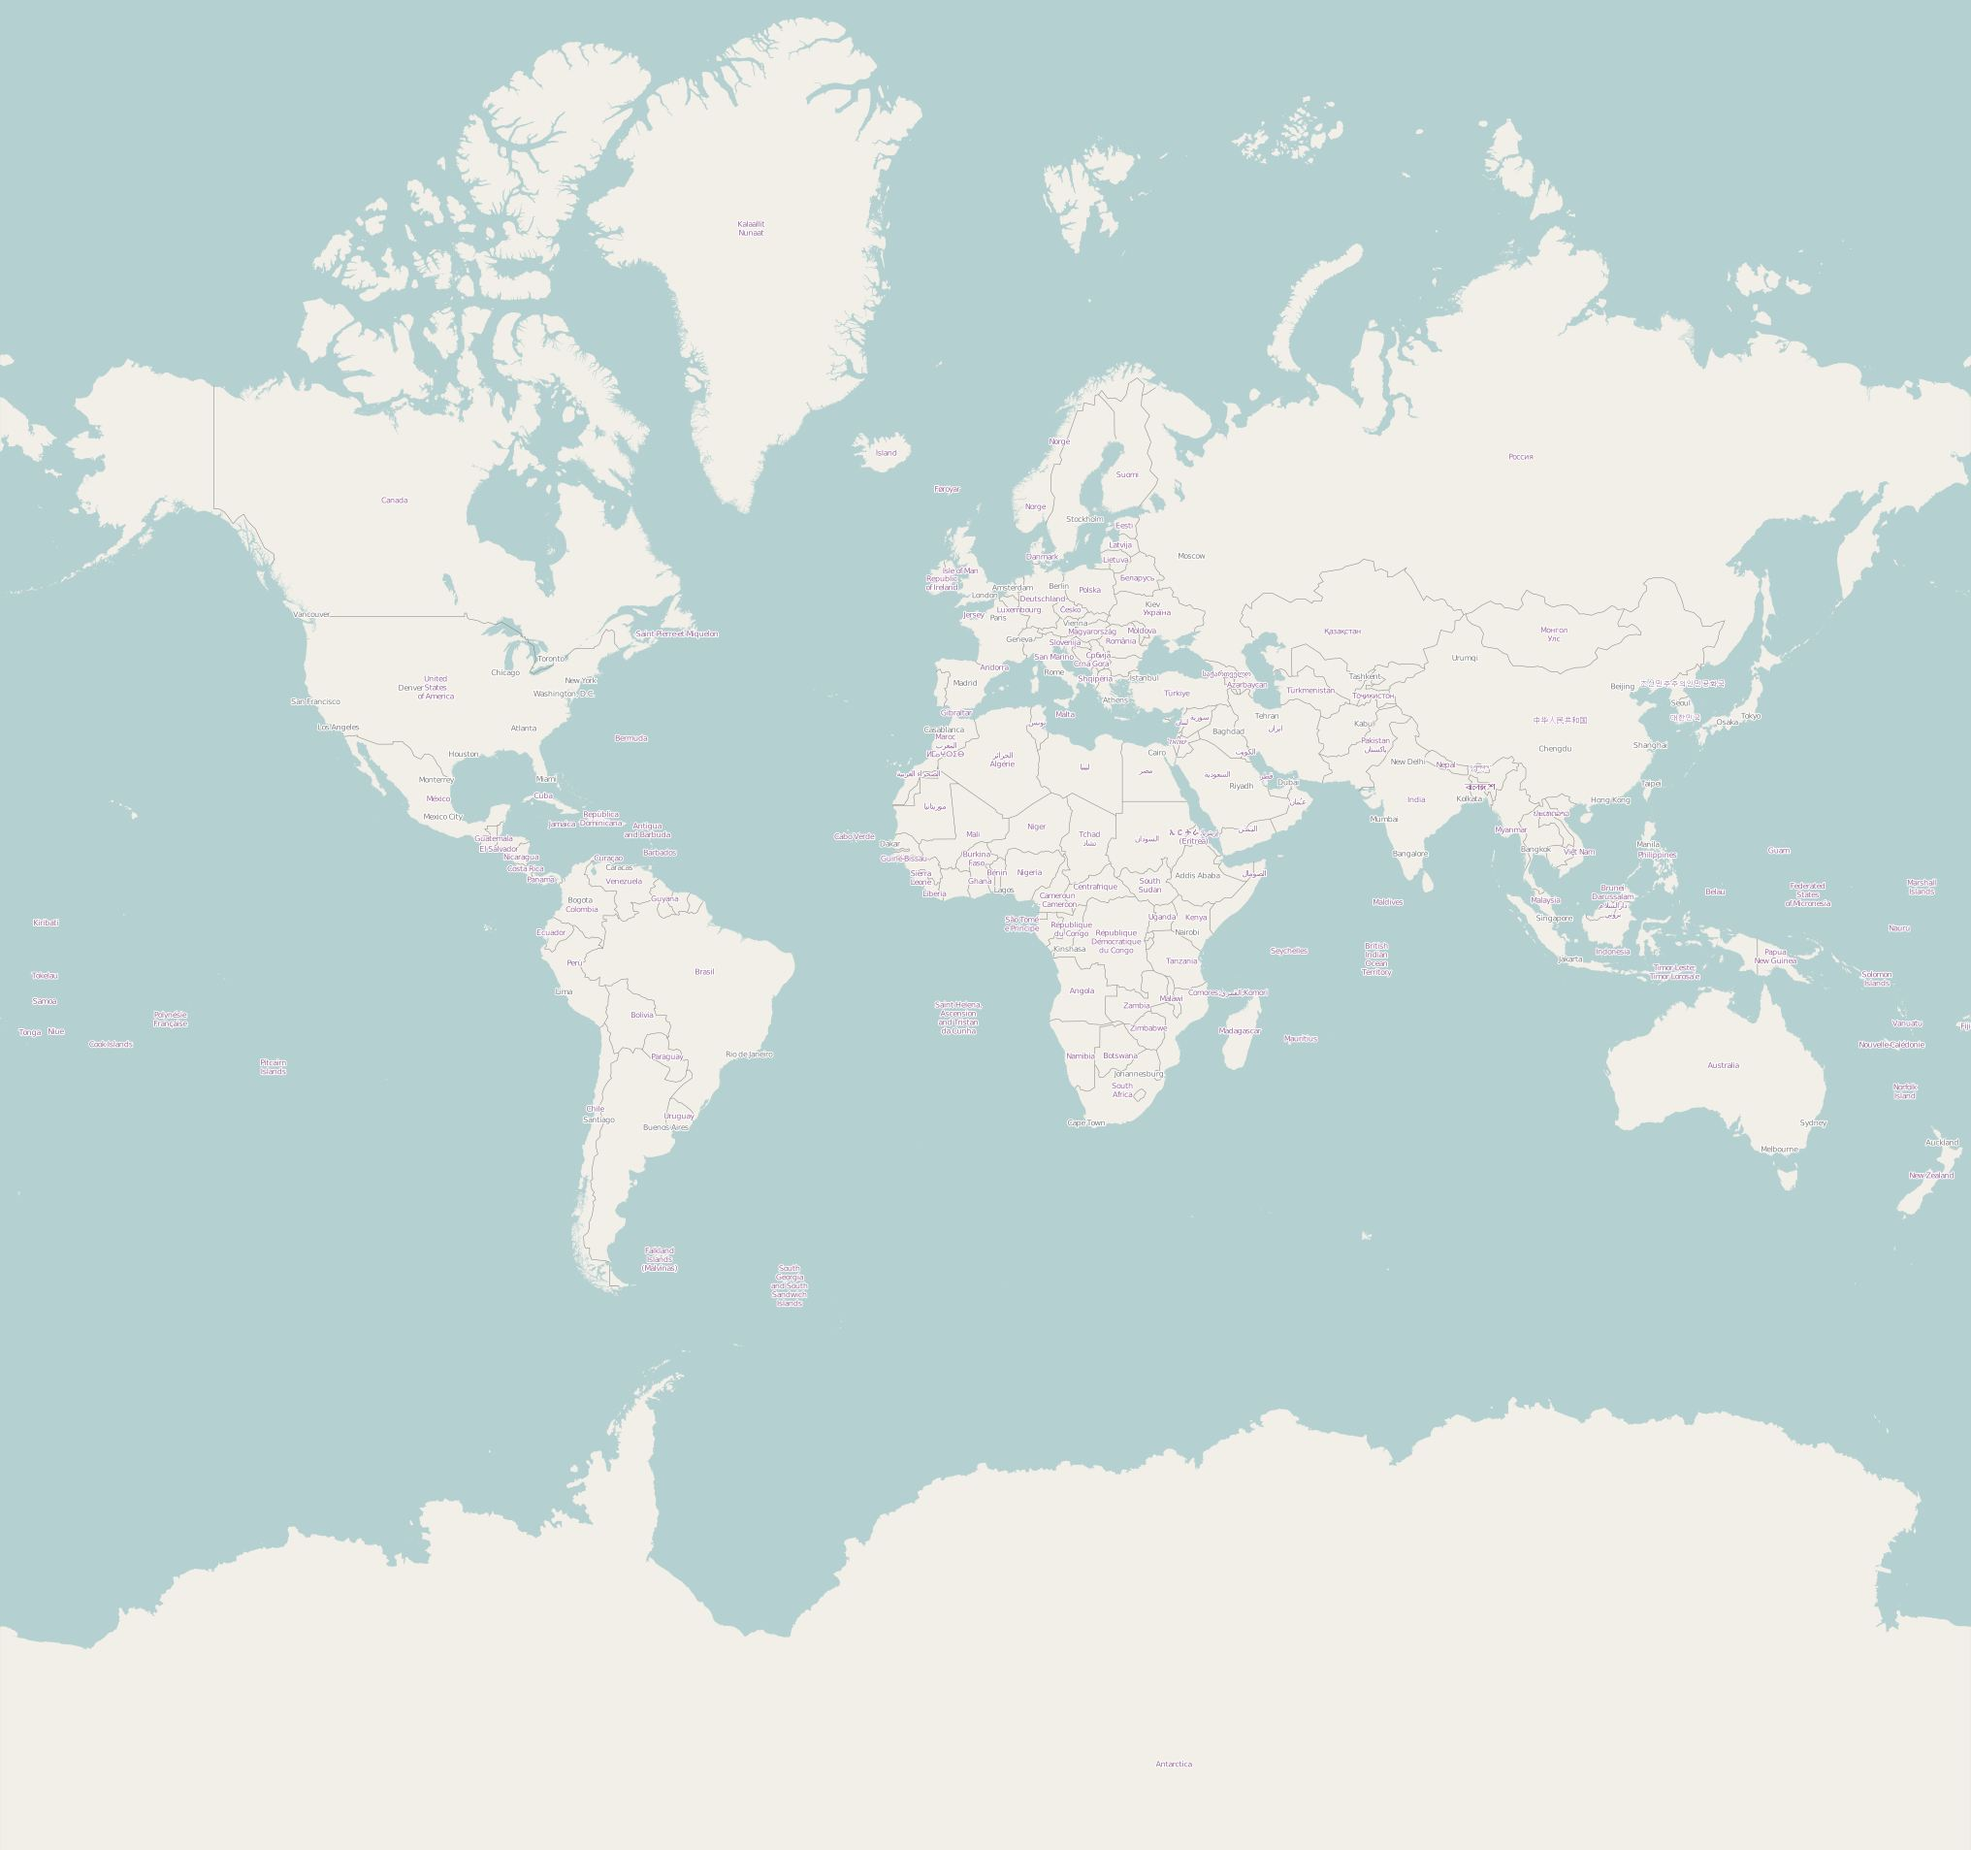
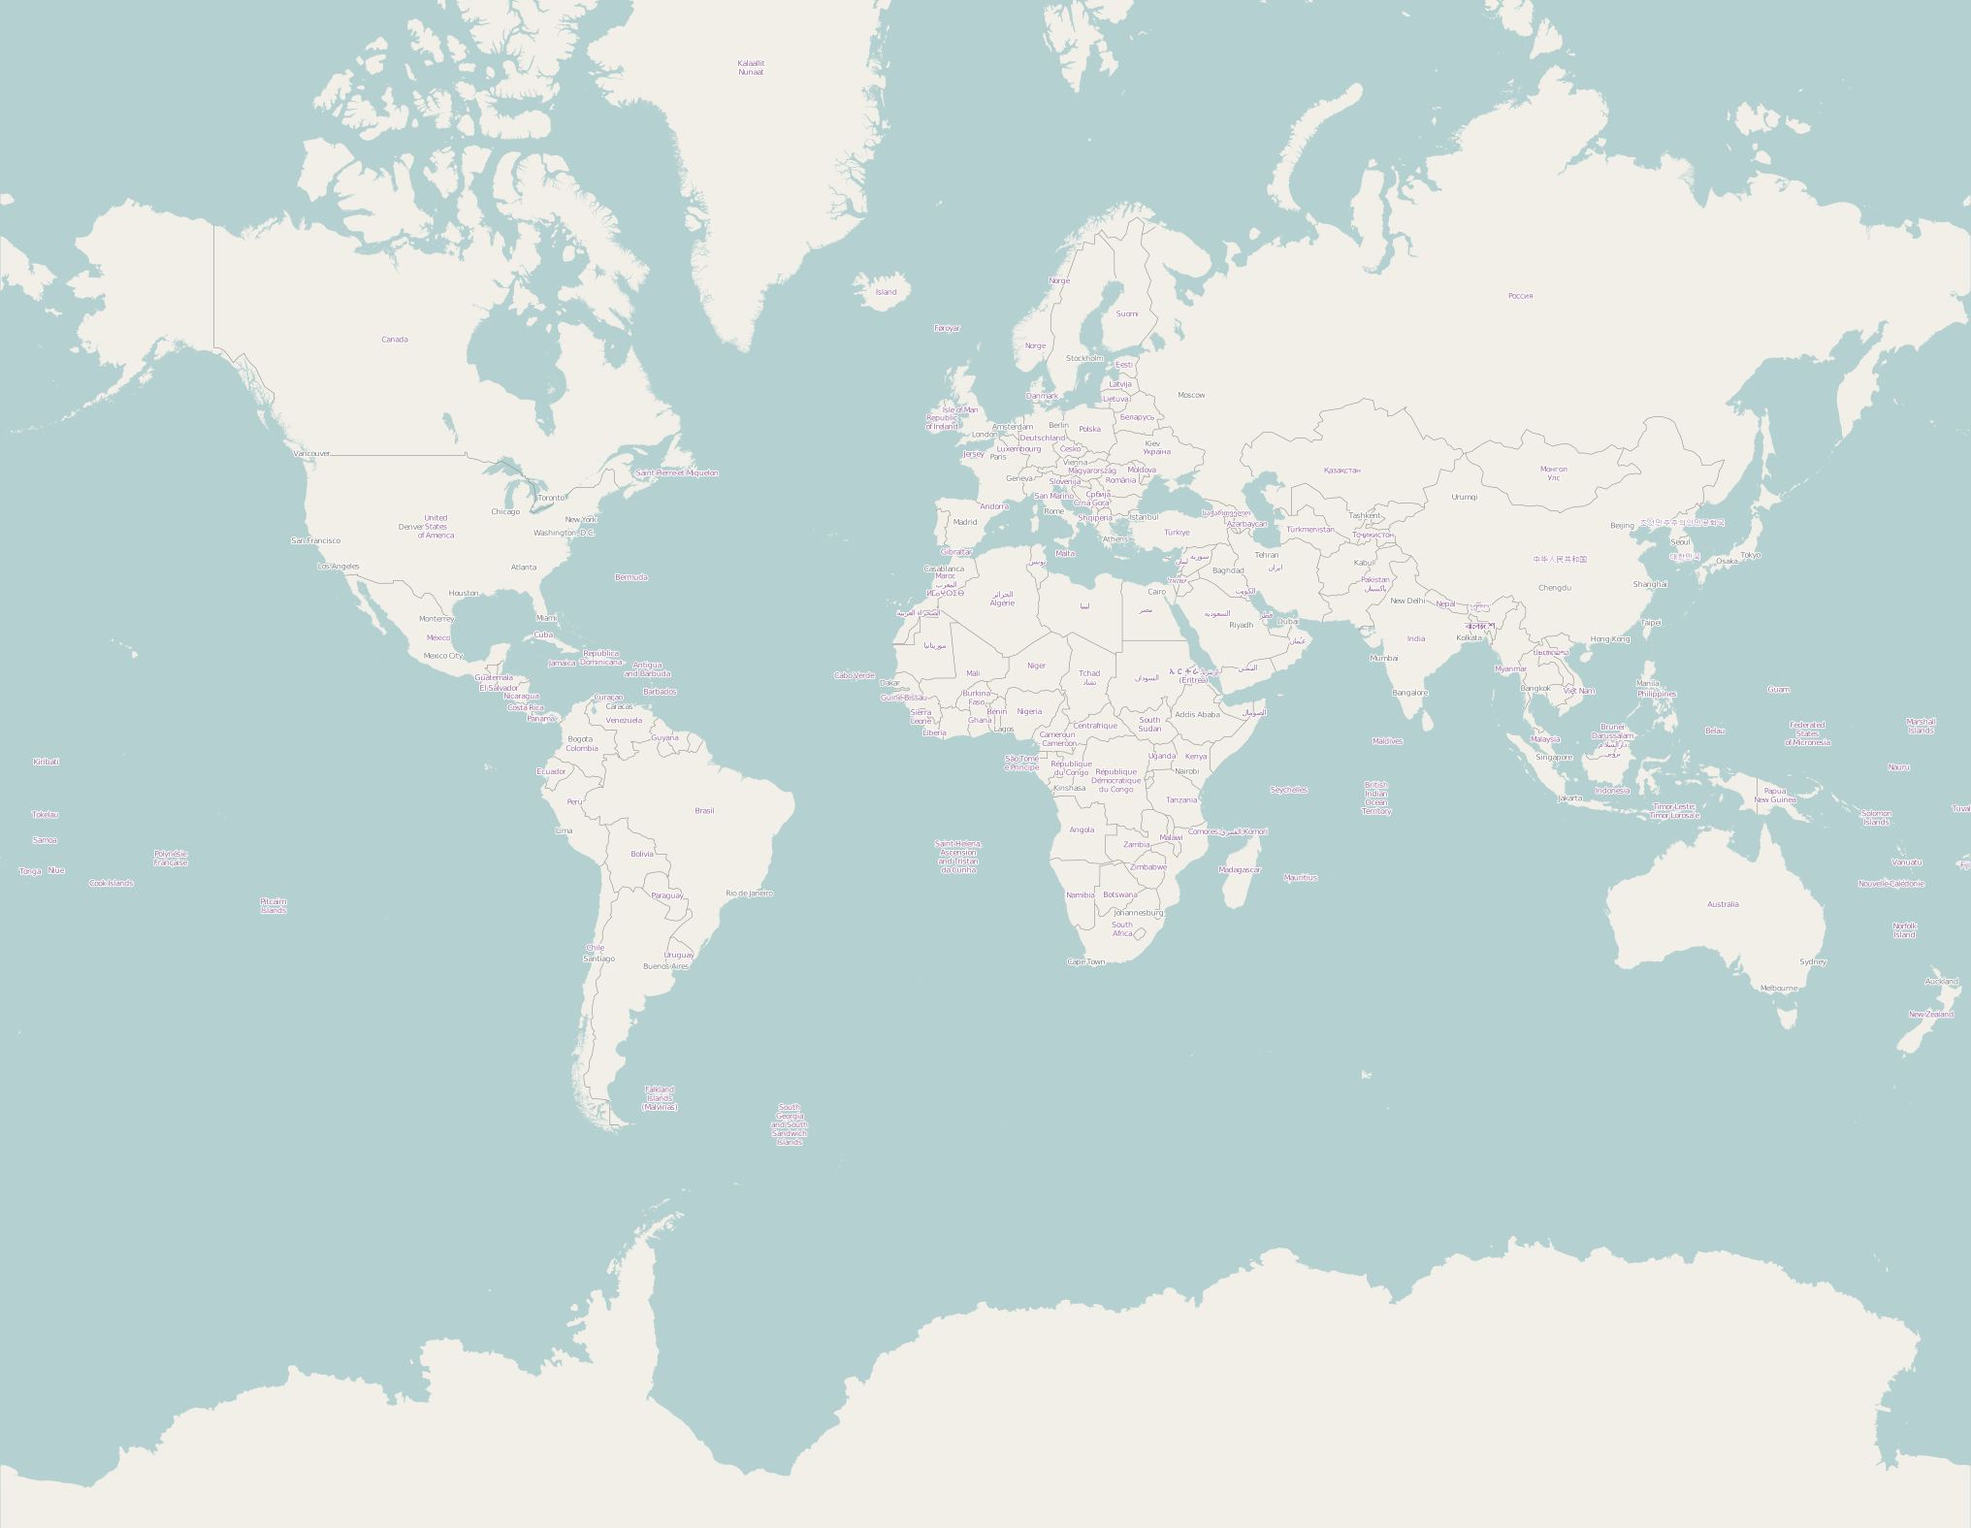
updated drawmap script

diff --git a/checks/drawmap.php b/checks/drawmap.php
@@ -14,7 +14,7 @@ $head = <<<ST
 <?xml version="1.0" encoding="ISO-8859-1" standalone="no" ?>
 <!DOCTYPE svg PUBLIC "-//W3C//DTD SVG 20010904//EN"
   "http://www.w3.org/TR/2001/REC-SVG-20010904/DTD/svg10.dtd">
-<svg width="3145" height="2937" xmlns="http://www.w3.org/2000/svg"
+<svg width="2032" height="1575" xmlns="http://www.w3.org/2000/svg"
   xmlns:xlink="http://www.w3.org/1999/xlink">
   <title>World Schema Files</title>
   <style>
@@ -23,11 +23,12 @@ $head = <<<ST
 			fill:none;
 			}
 		text {
+                        font-size:8px;
 			fill:black;
 			text-anchor:middle;
 			}
 	</style>
-<image x="0" y="0" width="3145px" height="2953px"
+<image x="0" y="0" width="2032px" height="1575px"
     xlink:href="map.jpg"/>
 ST;
 
@@ -37,19 +38,19 @@ fwrite($fh,$head);
 foreach ($schemas as $k => $v) {
 	$lr = deg2rad($schemas[$k]['left']);
 	$rr = deg2rad($schemas[$k]['right']);
-	$tr = deg2rad(min(84,$schemas[$k]['top']));
-	$br = deg2rad(max(-84,$schemas[$k]['bottom']));
+	$tr = deg2rad(min(80,$schemas[$k]['top']));
+	$br = deg2rad(max(-80,$schemas[$k]['bottom']));
 
   $tm = .5 * log((1+sin($tr))/(1-sin($tr)));
 	$bm = .5 * log((1+sin($br))/(1-sin($br)));
 	
-	$x = $lr*500+1570;
-	$y = 1474-$tm*500;
-	$w = ($rr-$lr)*500;
-	$h = ($tm-$bm)*500;
+	$x = $lr*323.57+1016;
+	$y = 787.5-$tm*323.57;
+	$w = ($rr-$lr)*323.57;
+	$h = ($tm-$bm)*323.57;
 
 	$tx = $x + $w/2;
-	$ty = $y + $h/2+6;
+	$ty = $y + $h/2+3;
 
 	$str = "<g><rect x=\"$x\" y=\"$y\" width=\"$w\" height=\"$h\" />\n";
 	$str .= "<text x=\"$tx\" y=\"$ty\">$k</text>\n";
